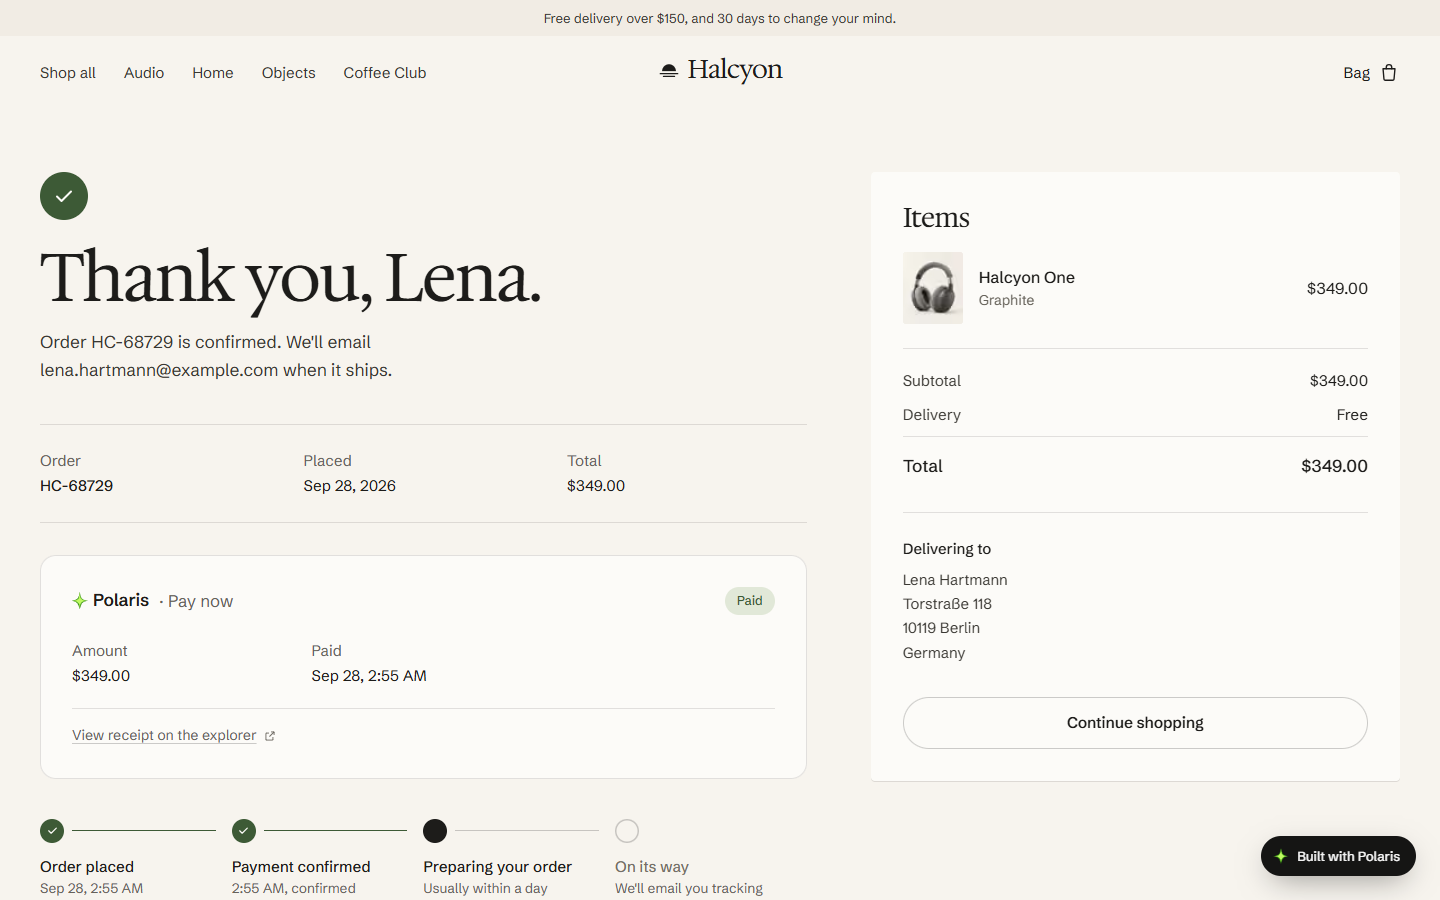
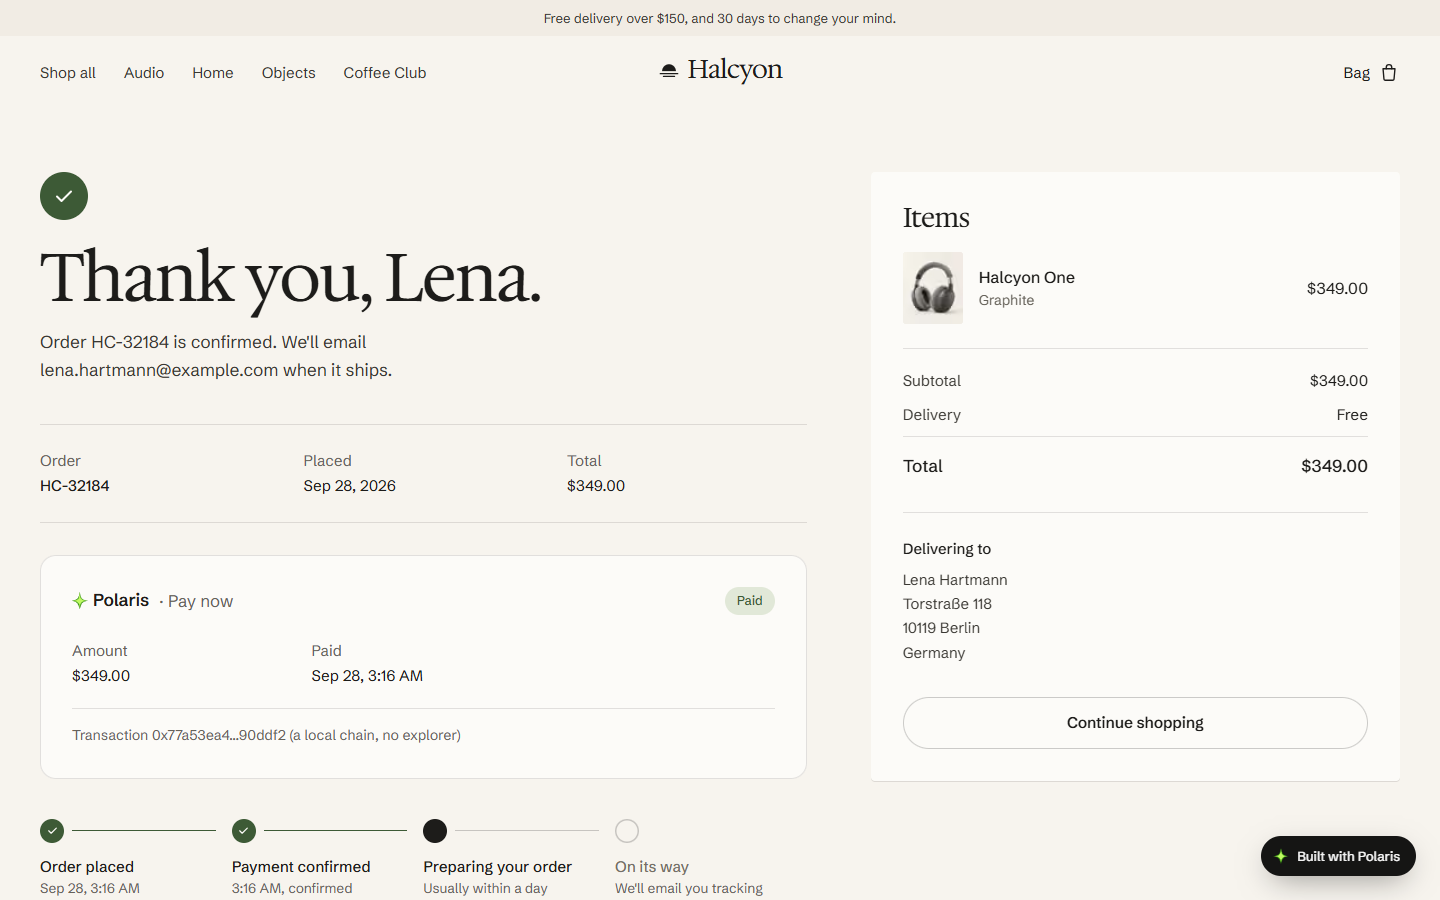
Halcyon's direct wallet payment works against the real API; the demo covers all four ways to pay
- shop: a direct wallet payment posts to the API's real relay route
  (/api/v1/relay/payments; it went to /api/v1/relay, which doesn't exist),
  and on pnpm demo:local signs for the local chain's contracts
  (POLARIS_LOCAL_CHAIN, development builds only); the receipt links to an
  explorer only when there is one.
- demo:e2e adds the Coffee Club subscription through the Polaris popup and
  a direct wallet payment (a scripted browser wallet on the local chain).
  All 15 steps pass; docs/demo is recaptured from that run.

diff --git a/apps/shop/src/components/checkout/checkout-view.tsx b/apps/shop/src/components/checkout/checkout-view.tsx
@@ -9,7 +9,7 @@ import { FLAT_SHIPPING, FREE_SHIPPING_THRESHOLD, getOption, getProduct } from "@
 import { CheckoutError, fetchOrder, logBrowserCalls, newAttemptId, placeOrder, type CheckoutPayload } from "@/lib/checkout-client";
 import { formatUsd } from "@/lib/money";
 import { payIn4 } from "@/lib/pay-in-4";
-import { MONAD_TESTNET, PolarisCheckoutButton, isPolarisError, type CheckoutResult, type PayResult, type PolarisError } from "@/lib/polaris-client";
+import { PolarisCheckoutButton, chainFor, isPolarisError, type CheckoutResult, type PayResult, type PolarisError } from "@/lib/polaris-client";
 import { useShop } from "@/lib/shop-context";
 
 import { ContactFields, ContactSummary, DEMO_BUYER, FIELD_NAMES, validateBuyer, type BuyerForm } from "./contact-fields";
@@ -21,8 +21,6 @@ import { ACTIVE_STEP, WalletSteps, type WalletPhase } from "./wallet-steps";
 type Notice = { tone: "info" | "error"; text: string; at: "top" | "inline"; working?: boolean } | null;
 
 type Eip1193 = { request(args: { method: string; params?: unknown[] }): Promise<unknown> };
-
-const MONAD_CHAIN_HEX = `0x${MONAD_TESTNET.chainId.toString(16)}`;
 
 const WALLET_LABEL: Partial<Record<WalletPhase, string>> = {
   connecting: "Connecting your wallet…",
@@ -57,6 +55,9 @@ export function CheckoutView({
   const shop = useShop();
   const router = useRouter();
   const { polaris, polarisConfig, setCurrentOrderId } = shop;
+  // The network a wallet payment signs on: Monad testnet, or `pnpm demo:local`'s chain.
+  const chain = useMemo(() => chainFor(polarisConfig), [polarisConfig]);
+  const chainHex = `0x${chain.chainId.toString(16)}`;
 
   const lines: SummaryLine[] = useMemo(() => {
     if (subscription) {
@@ -327,7 +328,7 @@ export function CheckoutView({
     // On another network: say so, and offer the switch, before the wallet or the store is asked for anything.
     try {
       const chainId = await eth.request({ method: "eth_chainId" });
-      if (typeof chainId === "string" && chainId.toLowerCase() !== MONAD_CHAIN_HEX) {
+      if (typeof chainId === "string" && chainId.toLowerCase() !== chainHex) {
         moveWallet("idle");
         setNeedsSwitch(true);
         return;
@@ -397,7 +398,7 @@ export function CheckoutView({
       await sleep(1000);
     }
     toReceipt(orderId, "wallet");
-  }, [polaris, valid, revealInvalid, place, router, setCurrentOrderId, moveWallet, walletMessage, toReceipt]);
+  }, [polaris, valid, revealInvalid, place, router, setCurrentOrderId, moveWallet, walletMessage, toReceipt, chainHex]);
 
   /** Switch the wallet to Monad Testnet (adding it if the wallet has never seen it), then carry on paying. */
   const switchNetwork = useCallback(async () => {
@@ -407,18 +408,18 @@ export function CheckoutView({
     setWalletError(null);
     try {
       try {
-        await eth.request({ method: "wallet_switchEthereumChain", params: [{ chainId: MONAD_CHAIN_HEX }] });
+        await eth.request({ method: "wallet_switchEthereumChain", params: [{ chainId: chainHex }] });
       } catch (e) {
         if ((e as { code?: unknown }).code !== 4902) throw e;
         await eth.request({
           method: "wallet_addEthereumChain",
           params: [
             {
-              chainId: MONAD_CHAIN_HEX,
-              chainName: MONAD_TESTNET.name,
-              rpcUrls: [MONAD_TESTNET.rpcUrl],
-              blockExplorerUrls: [MONAD_TESTNET.explorer],
-              nativeCurrency: MONAD_TESTNET.nativeCurrency,
+              chainId: chainHex,
+              chainName: chain.name,
+              rpcUrls: [chain.rpcUrl],
+              ...(chain.explorer ? { blockExplorerUrls: [chain.explorer] } : {}),
+              nativeCurrency: chain.nativeCurrency,
             },
           ],
         });
@@ -426,7 +427,7 @@ export function CheckoutView({
     } catch {
       if (alive.current) {
         setSwitching(false);
-        setWalletError("Your wallet stayed on the other network. Switch to Monad Testnet in your wallet, then try again.");
+        setWalletError(`Your wallet stayed on the other network. Switch to ${chain.name} in your wallet, then try again.`);
       }
       return;
     }
@@ -434,7 +435,7 @@ export function CheckoutView({
     setSwitching(false);
     setNeedsSwitch(false);
     void payFromWallet();
-  }, [payFromWallet]);
+  }, [payFromWallet, chain, chainHex]);
 
   const onPolarisClickCapture = useCallback(
     (e: MouseEvent) => {

diff --git a/apps/shop/src/lib/polaris.ts b/apps/shop/src/lib/polaris.ts
@@ -14,7 +14,7 @@ import {
 
 import { randomBytes } from "node:crypto";
 
-import type { BrowserPolarisConfig } from "./polaris-config";
+import type { BrowserPolarisConfig, LocalChain } from "./polaris-config";
 
 export { PolarisError, PolarisSignatureVerificationError, isPolarisError } from "polarispay-sdk/server";
 export type { CheckoutSession, WebhookEvent as PolarisEvent } from "polarispay-sdk/server";
@@ -31,7 +31,7 @@ type Address = `0x${string}`;
  *   POLARIS_SECRET_KEY                   sk_test_… from Polaris for Business
  *   POLARIS_WEBHOOK_SECRET               whsec_… for /api/webhooks/polaris
  *   POLARIS_MERCHANT_ADDRESS             the store's payout address, for direct wallet payments
- *   POLARIS_RELAY_URL                    optional; defaults to {POLARIS_API_BASE}/api/v1/relay
+ *   POLARIS_RELAY_URL                    optional; defaults to {POLARIS_API_BASE}/api/v1/relay/payments
  *   NEXT_PUBLIC_POLARIS_PUBLISHABLE_KEY  pk_test_…
  *   NEXT_PUBLIC_POLARIS_CHECKOUT_ORIGIN  where hosted checkout pages live (the Polaris app)
  *
@@ -155,13 +155,56 @@ export function resolvePolarisConfig(env: Env, origin: string): PolarisConfig {
     webhookSecret: env.POLARIS_WEBHOOK_SECRET!.trim(),
     publishableKey: env.NEXT_PUBLIC_POLARIS_PUBLISHABLE_KEY!.trim(),
     checkoutOrigin: new URL(env.NEXT_PUBLIC_POLARIS_CHECKOUT_ORIGIN!.trim()).origin,
-    relayUrl: env.POLARIS_RELAY_URL?.trim() || `${baseUrl}/api/v1/relay`,
+    // The API's direct-pay relay route (apps/business: POST /api/v1/relay/payments).
+    relayUrl: env.POLARIS_RELAY_URL?.trim() || `${baseUrl}/api/v1/relay/payments`,
     merchant: env.POLARIS_MERCHANT_ADDRESS!.trim() as Address,
   };
 }
 
 export function polarisConfig(origin: string): PolarisConfig {
   return resolvePolarisConfig(process.env, origin);
+}
+
+const ADDRESS_FIELDS = [
+  "stablecoin",
+  "payments",
+  "loanEngine",
+  "scoreManager",
+  "collateralVault",
+  "checkout",
+  "send",
+  "merchantRegistry",
+  "collector",
+  "batchSettlement",
+] as const;
+
+/**
+ * `pnpm demo:local`'s chain, from POLARIS_LOCAL_CHAIN (a JSON object: chainId,
+ * name, rpcUrl, explorer and each Polaris contract). Development only: the
+ * NODE_ENV test folds to false in a production build, so a deployed store
+ * always pays on Monad. Null when unset or malformed.
+ */
+export function localChain(env: Env = process.env): LocalChain | null {
+  if (process.env.NODE_ENV !== "development") return null;
+  const raw = env.POLARIS_LOCAL_CHAIN?.trim();
+  if (!raw) return null;
+  try {
+    const c = JSON.parse(raw) as Record<string, unknown>;
+    if (!Number.isInteger(c.chainId) || typeof c.rpcUrl !== "string") return null;
+    const zero = "0x0000000000000000000000000000000000000000";
+    const addresses = Object.fromEntries(
+      ADDRESS_FIELDS.map((k) => [k, typeof c[k] === "string" && ADDRESS.test(c[k] as string) ? c[k] : zero]),
+    ) as Pick<LocalChain, (typeof ADDRESS_FIELDS)[number]>;
+    return {
+      chainId: c.chainId as number,
+      name: typeof c.name === "string" ? c.name : "Local chain",
+      rpcUrl: c.rpcUrl,
+      explorer: typeof c.explorer === "string" ? c.explorer : "",
+      ...addresses,
+    };
+  } catch {
+    return null;
+  }
 }
 
 /** What the browser may know: no secrets. Passed from server components as props. */
@@ -179,6 +222,7 @@ export function browserConfig(): BrowserPolarisConfig {
     checkoutOrigin: mock ? null : config.checkoutOrigin,
     relayUrl: mock ? `${DEV_MOCK_PATH}/api/v1/relay` : config.relayUrl,
     payInFourAprBps,
+    chain: localChain(process.env),
   };
 }
 

diff --git a/apps/shop/src/components/order/order-view.tsx b/apps/shop/src/components/order/order-view.tsx
@@ -11,7 +11,7 @@ import { fetchOrder } from "@/lib/checkout-client";
 import { formatUsd } from "@/lib/money";
 import type { Order } from "@/lib/orders/types";
 import { PolarisLockup } from "@/components/polaris-lockup";
-import { MONAD_TESTNET } from "@/lib/polaris-client";
+import { chainFor } from "@/lib/polaris-client";
 import { useShop } from "@/lib/shop-context";
 
 const DATE = new Intl.DateTimeFormat("en-US", { month: "short", day: "numeric", year: "numeric" });
@@ -305,6 +305,9 @@ function PaymentBlock({
 }) {
   const [canceling, setCanceling] = useState(false);
   const [cancelError, setCancelError] = useState<string | null>(null);
+  const { polarisConfig } = useShop();
+  // Where a receipt's transaction can be seen: Monad testnet's explorer, or none on a local chain.
+  const explorer = chainFor(polarisConfig).explorer;
   const paid = order.status === "paid";
   const manageUrl = checkoutOrigin ? `${checkoutOrigin}/insights?view=plans` : null;
 
@@ -487,8 +490,10 @@ function PaymentBlock({
         <p className="mt-5 border-t border-hair pt-4 text-[0.88rem] text-muted">
           {devMock ? (
             <>Test transaction {short(order.payment.txHash, 10, 6)} (dev mock: nothing was sent on chain)</>
+          ) : !explorer ? (
+            <>Transaction {short(order.payment.txHash, 10, 6)} (a local chain, no explorer)</>
           ) : (
-            <a href={`${MONAD_TESTNET.explorer}/tx/${order.payment.txHash}`} target="_blank" rel="noreferrer" className="link inline-flex items-center gap-1.5">
+            <a href={`${explorer}/tx/${order.payment.txHash}`} target="_blank" rel="noreferrer" className="link inline-flex items-center gap-1.5">
               View receipt on the explorer <ExternalIcon size={14} />
             </a>
           )}

diff --git a/apps/shop/src/lib/polaris-client.ts b/apps/shop/src/lib/polaris-client.ts
@@ -17,6 +17,20 @@ export type { CheckoutMode, CheckoutResult, PayResult, PayStage, Polaris, Polari
 export const DEV_MOCK_PAYMENTS = "0x000000000000000000000000000000000000dEaD" as const;
 const DEV_MOCK_CHAIN: PolarisChain = { ...MONAD_TESTNET, payments: DEV_MOCK_PAYMENTS };
 
+/** The chain direct wallet payments sign for: `pnpm demo:local`'s, the dev mock's stand-in, or Monad testnet. */
+export function chainFor(config: BrowserPolarisConfig): PolarisChain {
+  if (config.ok && config.chain) {
+    return {
+      ...MONAD_TESTNET,
+      ...config.chain,
+      key: "local",
+      testnet: true,
+      deployment: { source: "pnpm demo:local", deployedAt: null },
+    };
+  }
+  return config.ok && config.target === "dev-mock" ? DEV_MOCK_CHAIN : MONAD_TESTNET;
+}
+
 /** The browser client for this store, or null when payments are off (or during SSR). */
 export function makePolaris(config: BrowserPolarisConfig): Polaris | null {
   if (!config.ok || typeof window === "undefined") return null;
@@ -25,6 +39,6 @@ export function makePolaris(config: BrowserPolarisConfig): Polaris | null {
     publishableKey: config.publishableKey,
     checkoutOrigin: config.checkoutOrigin ?? origin,
     relayUrl: new URL(config.relayUrl, origin).toString(),
-    chain: config.target === "dev-mock" ? DEV_MOCK_CHAIN : MONAD_TESTNET,
+    chain: chainFor(config),
   });
 }

diff --git a/apps/shop/src/lib/polaris-config.ts b/apps/shop/src/lib/polaris-config.ts
@@ -1,3 +1,22 @@
+/** A local chain's name, RPC and Polaris contracts (from its deployment record). */
+export type LocalChain = {
+  chainId: number;
+  name: string;
+  rpcUrl: string;
+  /** "" when there is no explorer (a Hardhat node). */
+  explorer: string;
+  stablecoin: `0x${string}`;
+  payments: `0x${string}`;
+  loanEngine: `0x${string}`;
+  scoreManager: `0x${string}`;
+  collateralVault: `0x${string}`;
+  checkout: `0x${string}`;
+  send: `0x${string}`;
+  merchantRegistry: `0x${string}`;
+  collector: `0x${string}`;
+  batchSettlement: `0x${string}`;
+};
+
 /**
  * The Polaris settings a browser may see, handed from server components to
  * client ones. No secrets: the publishable key is public by design.
@@ -12,5 +31,10 @@ export type BrowserPolarisConfig =
       /** May be relative to the store's origin. */
       relayUrl: string;
       payInFourAprBps: number;
+      /**
+       * `pnpm demo:local`'s chain (development only): the contracts a direct
+       * wallet payment signs for. Null: Monad testnet, from polarispay-sdk.
+       */
+      chain?: LocalChain | null;
     }
   | { ok: false; reason: string; payInFourAprBps: number };

diff --git a/README.md b/README.md
@@ -63,7 +63,7 @@ and `DEMO_FAUCET_PORT`. Logs and state are in `.demo/`.
 `pnpm demo:e2e` ([`scripts/demo-e2e.cjs`](scripts/demo-e2e.cjs), needs
 Playwright: `PLAYWRIGHT_MODULE=<path>`) drives that run headless and writes the
 screenshots in [`docs/demo`](docs/demo). The committed ones are from a run in
-which all 12 steps passed:
+which all 15 steps passed:
 
 | Step | Screenshot |
 |---|---|
@@ -75,6 +75,8 @@ which all 12 steps passed:
 | The CRE underwriting workflow opens a $1,000 line on chain, with its reasons | [`20-payin4-6-limit-raised`](docs/demo/20-payin4-6-limit-raised.png) |
 | 4 × $87.92, nothing due today; confirm | [`20-payin4-7-app-checkout-with-line`](docs/demo/20-payin4-7-app-checkout-with-line.png), [`20-payin4-8-app-confirm`](docs/demo/20-payin4-8-app-confirm.png) |
 | The shop's order, paid through a Polaris plan (`plan.opened` webhook) | [`20-payin4-9-shop-order-plan`](docs/demo/20-payin4-9-shop-order-plan.png) |
+| Subscribe: the Coffee Club, monthly, in the Polaris popup; the first month charged on chain | [`50-subscribe-2-app-checkout-popup`](docs/demo/50-subscribe-2-app-checkout-popup.png), [`50-subscribe-4-shop-order`](docs/demo/50-subscribe-4-shop-order.png) |
+| Pay directly with a wallet: `polarispay-sdk` `pay()`, one signature, relayed gas-free | [`60-wallet-1-shop-checkout`](docs/demo/60-wallet-1-shop-checkout.png), [`60-wallet-2-shop-order-paid`](docs/demo/60-wallet-2-shop-order-paid.png) |
 | The buyer's app afterwards: balance, credit line, the plan | [`30-app-home-after`](docs/demo/30-app-home-after.png), [`31-app-credit-line`](docs/demo/31-app-credit-line.png), [`32-app-pay-in-4-plans`](docs/demo/32-app-pay-in-4-plans.png) |
 | The dashboard: payments, Envio feed and credit reasons, the plan, registration | [`40-dashboard-overview`](docs/demo/40-dashboard-overview.png), [`41-dashboard-panels`](docs/demo/41-dashboard-panels.png), [`42-dashboard-payments`](docs/demo/42-dashboard-payments.png), [`43-dashboard-pay-in-4`](docs/demo/43-dashboard-pay-in-4.png), [`44-dashboard-settings-registered`](docs/demo/44-dashboard-settings-registered.png) |
 
@@ -111,7 +113,7 @@ the API. Each app's README lists its environment.
 | The Polaris app | `pnpm --filter @polaris/app typecheck`, `lint`, `check:signatures`, `build` | 43 signature checks against the Solidity typehashes |
 | Halcyon | `pnpm --filter @polaris/shop test`, `typecheck`, `lint`, `build` | 84 passing; the build proves no dev mock ships |
 | Landing | `pnpm --filter @polaris/landing typecheck`, `build` | builds |
-| End to end | `pnpm demo:local` + `pnpm demo:e2e` | 12 of 12 steps; [`docs/demo`](docs/demo) |
+| End to end | `pnpm demo:local` + `pnpm demo:e2e` | 15 of 15 steps (Pay now, Pay in 4 with CRE underwriting, Subscribe, direct wallet pay, the dashboard); [`docs/demo`](docs/demo) |
 | | `pnpm --filter @polaris/business e2e:local` | 13 of 13 checks (SDK sessions, relayed Pay now and Pay in 4, verified webhooks, a collection) |
 | | `pnpm --filter @polarispay/contracts e2e:local` | all nine flows; the buyer, sender and freelancer never hold MON |
 | | `pnpm --filter @polaris/cre-workflows e2e:local` | 7 passing (both workflows against real contracts on a local node) |

diff --git a/apps/shop/README.md b/apps/shop/README.md
@@ -171,7 +171,7 @@ Polaris window is then the mock's test checkout.
    NEXT_PUBLIC_POLARIS_CHECKOUT_ORIGIN=http://localhost:3000
    POLARIS_WEBHOOK_SECRET=whsec_…
    POLARIS_MERCHANT_ADDRESS=0x…          # the store's payout address
-   # POLARIS_RELAY_URL=…                 # defaults to {POLARIS_API_BASE}/api/v1/relay
+   # POLARIS_RELAY_URL=…                 # defaults to {POLARIS_API_BASE}/api/v1/relay/payments
    ```
 
 4. `pnpm --filter @polaris/shop dev`. Setting `POLARIS_API_BASE` switches the
